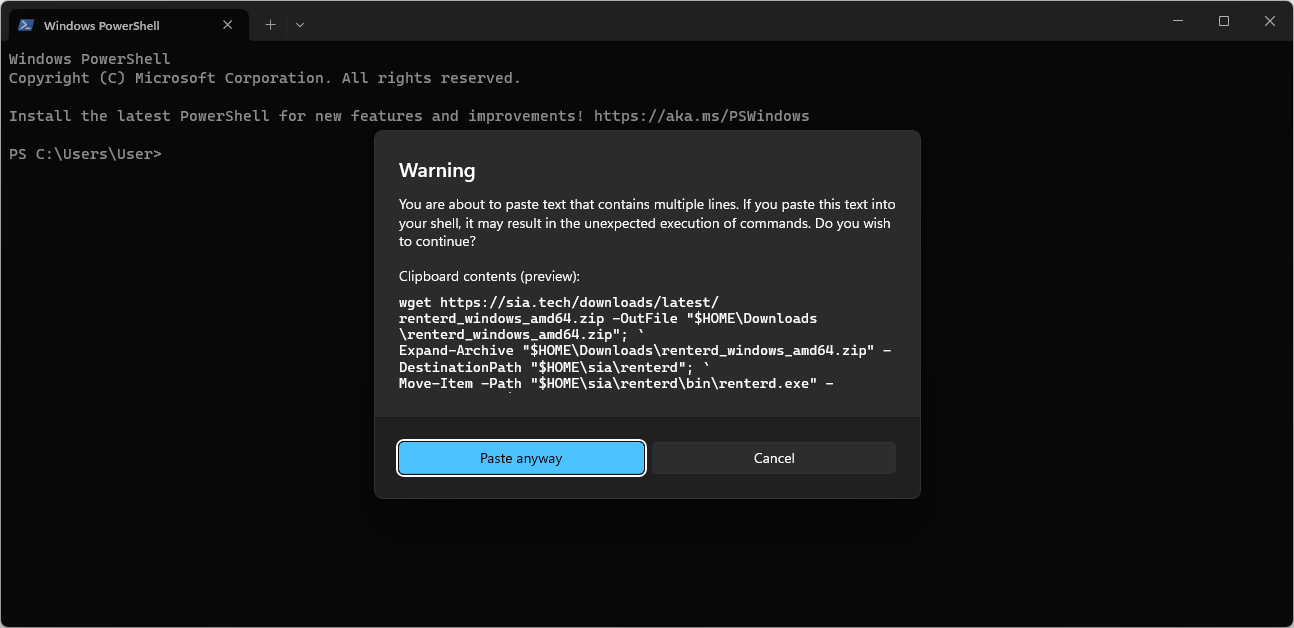
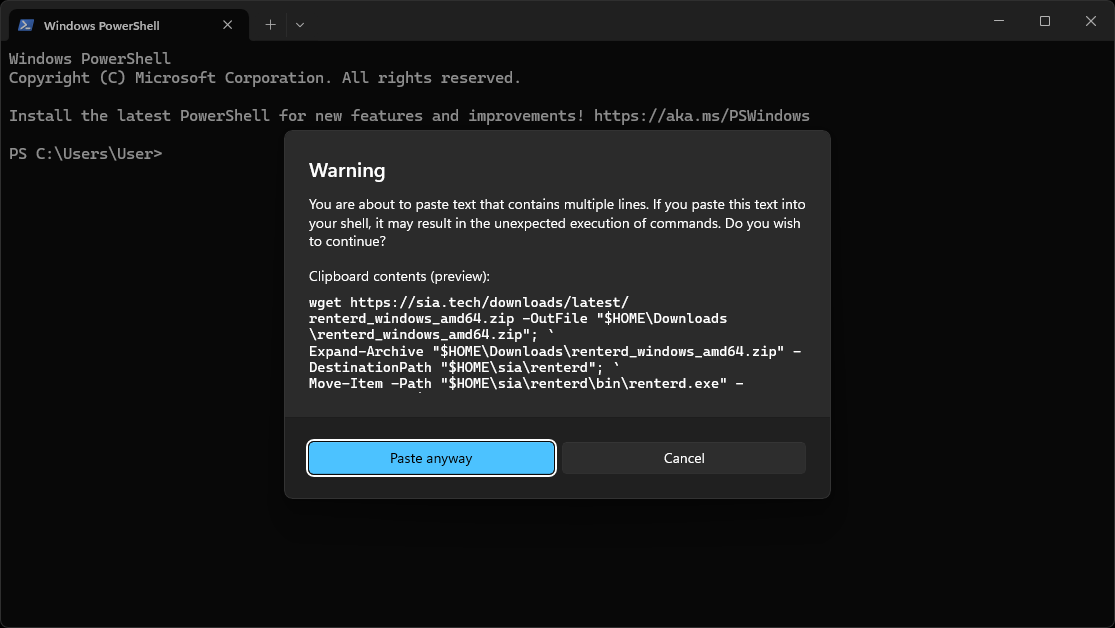
Guide update for `v1.1.0-beta.2`.

diff --git a/renting/setting-up-renterd/windows.md b/renting/setting-up-renterd/windows.md
@@ -57,8 +57,7 @@ Press `windows key + R` to open the run dialog. Type in `powershell` and press `
 
 Once the Terminal loads, run the following command to download and install the latest version of `renterd`.
 
-{% tabs %}
-{% tab title="Mainnet" %}
+{% tab %}
 ```powershell
 wget https://sia.tech/downloads/latest/renterd_windows_amd64.zip -OutFile "$HOME\Downloads\renterd_windows_amd64.zip"; `
 Expand-Archive "$HOME\Downloads\renterd_windows_amd64.zip" -DestinationPath "$HOME\sia\renterd"; `
@@ -66,16 +65,6 @@ Move-Item -Path "$HOME\sia\renterd\bin\renterd.exe" -Destination "$HOME\sia\rent
 Remove-Item -LiteralPath "$HOME\sia\renterd\bin" -Recurse
 ```
 {% endtab %}
-
-{% tab title="Zen Testnet" %}
-```powershell
-wget https://sia.tech/downloads/latest/renterd_zen_windows_amd64.zip -OutFile "$HOME\Downloads\renterd_zen_windows_amd64.zip"; `
-Expand-Archive "$HOME\Downloads\renterd_zen_windows_amd64.zip" -DestinationPath "$HOME\sia\renterd_zen"; `
-Move-Item -Path "$HOME\sia\renterd_zen\bin\renterd.exe" -Destination "$HOME\sia\renterd_zen\renterd.exe" -Force; `
-Remove-Item -LiteralPath "$HOME\sia\renterd_zen\bin" -Recurse
-```
-{% endtab %}
-{% endtabs %}
 
 {% hint style="warning" %}
 When you paste multi-line commands into PowerShell, you will be prompted with a warning. Make sure you have copied the entire command and click `Paste anyway` to proceed.
@@ -87,117 +76,55 @@ When you paste multi-line commands into PowerShell, you will be prompted with a 
 
 ---
 
-## Creating a wallet
+## Configuring `renterd`
 
-`renterd` uses BIP-39 12-word recovery phrases. To generate a new wallet recovery phrase, run the following command:
+Once installed, `renterd` will need to be configure with a wallet seed and a password to unlock the web interface. This can be done using the interactive configuration wizard as seen below.
 
-{% tabs %}
-{% tab title="Mainnet" %}
+{% tab %}
 ```powershell
 cd $HOME\sia\renterd\; `
-.\renterd.exe seed
+.\renterd.exe config
 ```
 {% endtab %}
 
-{% tab title="Zen Testnet" %}
-```powershell
-cd $HOME\sia\renterd_zen\; `
-.\renterd.exe seed
-```
-{% endtab %}
-{% endtabs %}
-
-{% hint style="warning" %}
-A new 12-word recovery phrase will be generated. Make sure to store it in a safe place, as you will need this phrase to recover your wallet.
+{% hint style="info" %}
+You will not see anything when you type in your seed phrase or unlock password. Press enter after typing each one.
 {% endhint %}
 
-![](../../.gitbook/assets/renterd-install-screenshots/windows/03-renterd-seed.png)
-
----
-
-## Configure your `renterd.yml` file
-
-Under `$HOME\sia\renterd\bin` create a new text document named `renterd.yml`.
-
-{% tabs %}
-{% tab title="Mainnet" %}
-```powershell
-New-Item -Path "$HOME\sia\renterd" -Name "renterd.yml" -ItemType "file"; `
-Start-Process "C:\WINDOWS\system32\notepad.exe" "$HOME\sia\renterd\renterd.yml"
-```
-{% endtab %}
-
-{% tab title="Zen Testnet" %}
-```powershell
-New-Item -Path "$HOME\sia\renterd_zen" -Name "renterd.yml" -ItemType "file"; `
-Start-Process "C:\WINDOWS\system32\notepad.exe" "$HOME\sia\renterd_zen\renterd.yml"
-```
-{% endtab %}
-{% endtabs %}
-
-Once Notepad loads, enter the following and configure it as needed.
-
-```yaml
-seed: your seed phrase goes here
-http:
-  password: your_api_password
-autopilot:
-  heartbeat: 5m
-s3:
-  enabled: true
-  disableAuth: false
-  keypairsV4:
-    your_access_key: your_private_key
-```
-
-Make sure to add your wallet seed and create an API password. The recovery phrase is the 12-word seed phrase you generated in the previous step. Type it carefully, with one space between each word, or copy it from the previous step. The password is used to unlock the `renterd` web UI; it should be something secure and easy to remember.
+![](../../.gitbook/assets/renterd-install-screenshots/windows/03-renterd-config.png)
 
 {% hint style="warning" %}
-`your_access_key` can be anywhere from 16 to 128 characters long, and `your_private_key` must be exactly 40 characters long.
+If you are generating a new 12-word seed phrase. Make sure to write it down and store it in a safe place. You will need this seed phrase to recover your wallet in the case of unexpected system failure.
 {% endhint %}
 
-Save your `renterd.yml` configuration using `ctrl+s` and close Notepad.
-
----
 
 ## Running `renterd`
 
-Run the following command to start `renterd`.
+Once installed, `renterd` can be run using the following command.
 
-{% tabs %}
-{% tab title="Mainnet" %}
+{% hint style="warning" %}
+If you are planning on run `renterd` on the `zen` or `anagami` testnet, the `-network` flag should be used to specify. Eg. `./renterd.exe -network zen|anagami`.
+{% endhint %}
+
+{% tab %}
 ```powershell
 cd $HOME\sia\renterd; `
 .\renterd.exe
 ```
 {% endtab %}
 
-{% tab title="Zen Testnet" %}
-```powershell
-cd $HOME\sia\renterd_zen; `
-.\renterd.exe
-```
-{% endtab %}
-{% endtabs %}
-
 {% hint style="warning" %}
 Remember to leave the PowerShell open while `renterd` is running. If you close the command prompt window, `renterd` will stop.
 {% endhint %}
 
-![](../../.gitbook/assets/renterd-install-screenshots/windows/04-renterd-success.png)
+![](../../.gitbook/assets/renterd-install-screenshots/windows/04-renterd-running.png)
 
-You can now access the Sia network using the `renterd` web UI by opening a browser and going to [http://localhost:9980](http://localhost:9980/).
-
-{% hint style="warning" %}
-If you are running `renterd` on the Zen Testnet, you will need to access the web UI on port `9880` by going to [http://localhost:9880](http://localhost:9880).
-{% endhint %}
+Once loaded a web browser will open displaying `renterd`'s web UI.
 
 ![](../../.gitbook/assets/renterd-install-screenshots/renterd-success.png)
 
-Enter the API `password` you created in your `renterd.yml` to unlock the `renterd` web UI.
-
 {% hint style="success" %}
-Congratulations, you have successfully set up `renterd`.
+Congratulations, you have successfully set up `renterd`. Follow the on screen setup wizard to begin renting storage on the Sia network!
 {% endhint %}
 
 ---
@@ -211,9 +138,7 @@ New versions of `renterd` are released regularly and contain bug fixes and perfo
 1. Stop `renterd` if it is running. This can be accomplished by pressing `ctrl+c` in the PowerShell currently running `renterd`.
 
 2. Download and install the latest version of `renterd`.
-
-{% tabs %}
-{% tab title="Mainnet" %}
+{% tab %}
 ```powershell
 wget https://sia.tech/downloads/latest/renterd_windows_amd64.zip -OutFile "$HOME\Downloads\renterd_windows_amd64.zip"; `
 Expand-Archive "$HOME\Downloads\renterd_windows_amd64.zip" -DestinationPath "$HOME\sia\renterd"; `
@@ -222,35 +147,32 @@ Remove-Item -LiteralPath "$HOME\sia\renterd\bin" -Recurse
 ```
 {% endtab %}
 
-{% tab title="Zen Testnet" %}
+3. Verify `renterd` has been updated.
+{% tab %}
 ```powershell
-wget https://sia.tech/downloads/latest/renterd_zen_windows_amd64.zip -OutFile "$HOME\Downloads\renterd_zen_windows_amd64.zip"; `
-Expand-Archive "$HOME\Downloads\renterd_zen_windows_amd64.zip" -DestinationPath "$HOME\sia\renterd_zen"; `
-Move-Item -Path "$HOME\sia\renterd_zen\bin\renterd.exe" -Destination "$HOME\sia\renterd_zen\renterd.exe" -Force; `
-Remove-Item -LiteralPath "$HOME\sia\renterd_zen\bin" -Recurse
+cd $HOME\sia\renterd; `
+.\renterd.exe version
 ```
 {% endtab %}
-{% endtabs %}
 
-3. Restart the `renterd` system service.
-{% tabs %}
-{% tab title="Mainnet" %}
+4. Start `renterd`.
+{% tab %}
 ```powershell
 cd $HOME\sia\renterd; `
 .\renterd.exe
 ```
 {% endtab %}
 
-{% tab title="Zen Testnet" %}
-```powershell
-cd $HOME\sia\renterd_zen; `
-.\renterd.exe
-```
-{% endtab %}
-{% endtabs %}
-
 ![Starting renterd](../../.gitbook/assets/renterd-install-screenshots/windows/04-renterd-success.png)
 
 {% hint style="success" %}
 Congratulations, you have successfully updated your version of `renterd`!
 {% endhint %}
+
+## Next Steps
+
+Now that you have `renterd` installed and running, you can start using it to store and retrieve data on the Sia network. You can access the web interface by navigating to `http://127.0.0.1:9980` in your web browser. If you installed `renterd` on a remote machine or a server, you will need to create an SSH tunnel to access the web interface.
+
+- [About Renting](../../about-renting.md)
+- [Transferring Siacoins](../../transferring-siacoins.md)
+- [Managing Your Files](../../renting-storage/managing-your-files.md)

diff --git a/renting/renting-storage/managing-your-files.md b/renting/renting-storage/managing-your-files.md
@@ -62,3 +62,8 @@ Health assessments can only be conducted if `renterd` when it's actively running
 Downloading files occurs directly within the app as well. A small download icon accompanies each file in your list. Downloading necessitates Siacoins because you are billed for the bandwidth consumed.
 
 <figure><img src="../../.gitbook/assets/renterd_8.png" alt=""><figcaption><p>Downloading files in renterd</p></figcaption></figure>
+
+## Metadata Backup
+
+On the Sia network, `renterd` serves a critical role in managing uploads, downloads, and file contracts. Acting as a renter's gateway to the network, `renterd` maintains a database of vital information containing the locations of file shards, contract details, and status updates for any storage and retrieval operations. Known as metadata, this information is crucial for the recovery of data stored on the network. Without it, any information a renter has uploaded is as good as lost. For this reason, having a recent backup of `renterd`'s database is essential in the event of system failure or data corruption.
+
